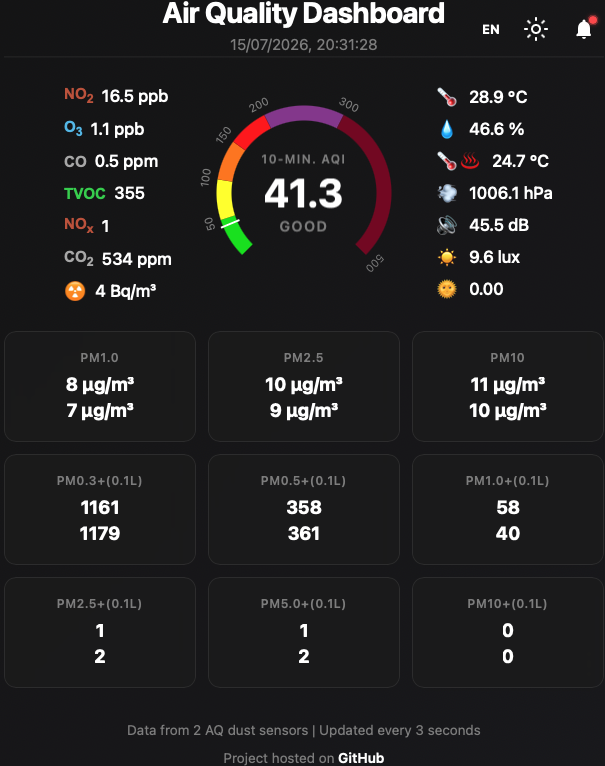
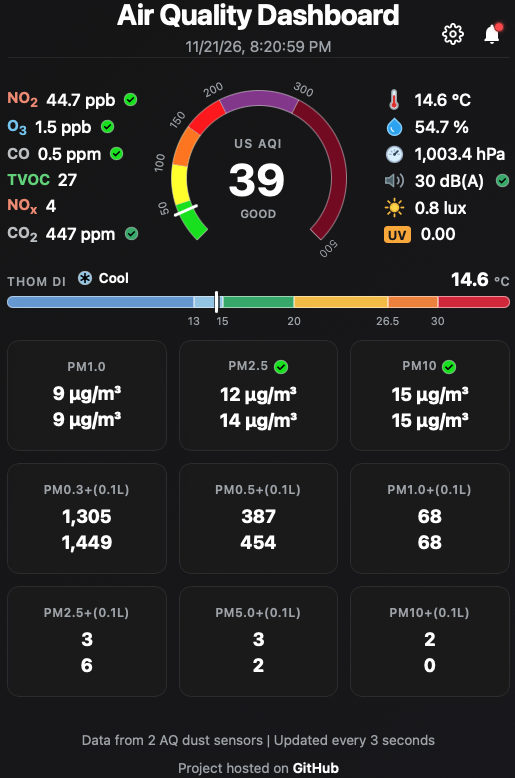
add UI screenshots and update the README

diff --git a/README.md b/README.md
@@ -71,6 +71,9 @@ When running under systemd, dashboard and sensor worker logs are available in th
 
 <p align="center">
   <img src="screenshots/aq_dashboard.png" alt="Air Quality Dashboard" width="45%">
+</p>
+<p align="center">
+  <img src="screenshots/aq_dashboard_settings.png" alt="Air Quality Dashboard Settings" width="50%">
   <img src="screenshots/aq_dashboard_notifications.png" alt="Air Quality Dashboard with Notifications" width="45%">
 </p>
 
@@ -96,13 +99,13 @@ Center Display:
 
 - The 10-minute Air Quality Index (AQI) - derived from dust particle measurements using a pair of PMSA007 sensors
 
+- Thom discomfort index
+
 Right Column Values (Environment Parameters):
 
--	Current room temperature in Celsius degrees
+-	Current room temperature
 
 -	Relative humidity (amount of moisture in the air) - the normal value is around 40%
-
-- Thom discomfort index in Celsius degrees (below 21 means no discomfort)
 
 -	Atmospheric pressure expressed in hectoPascals
 
@@ -134,9 +137,9 @@ Particle Count Measurements (from PMSA007 sensors):
 
 -	PM10+(0.1L) Number of particles larger than 10 microns per 0.1 liter of air
 
-The notification list shown in the right image is sorted by timestamp in descending order and can be accessed by clicking the bell icon.
+The settings page lets users configure monitoring profiles, sensor health tracking, language, theme, temperature units, color scheme, and dust-sensor visibility.
 
-The UI theme can be toggled between dark and light using the button on the left of the notifications button. 
+The notification list shown in the right image is sorted by timestamp in descending order and can be accessed by clicking the bell icon.
 
 ## Reference
 
